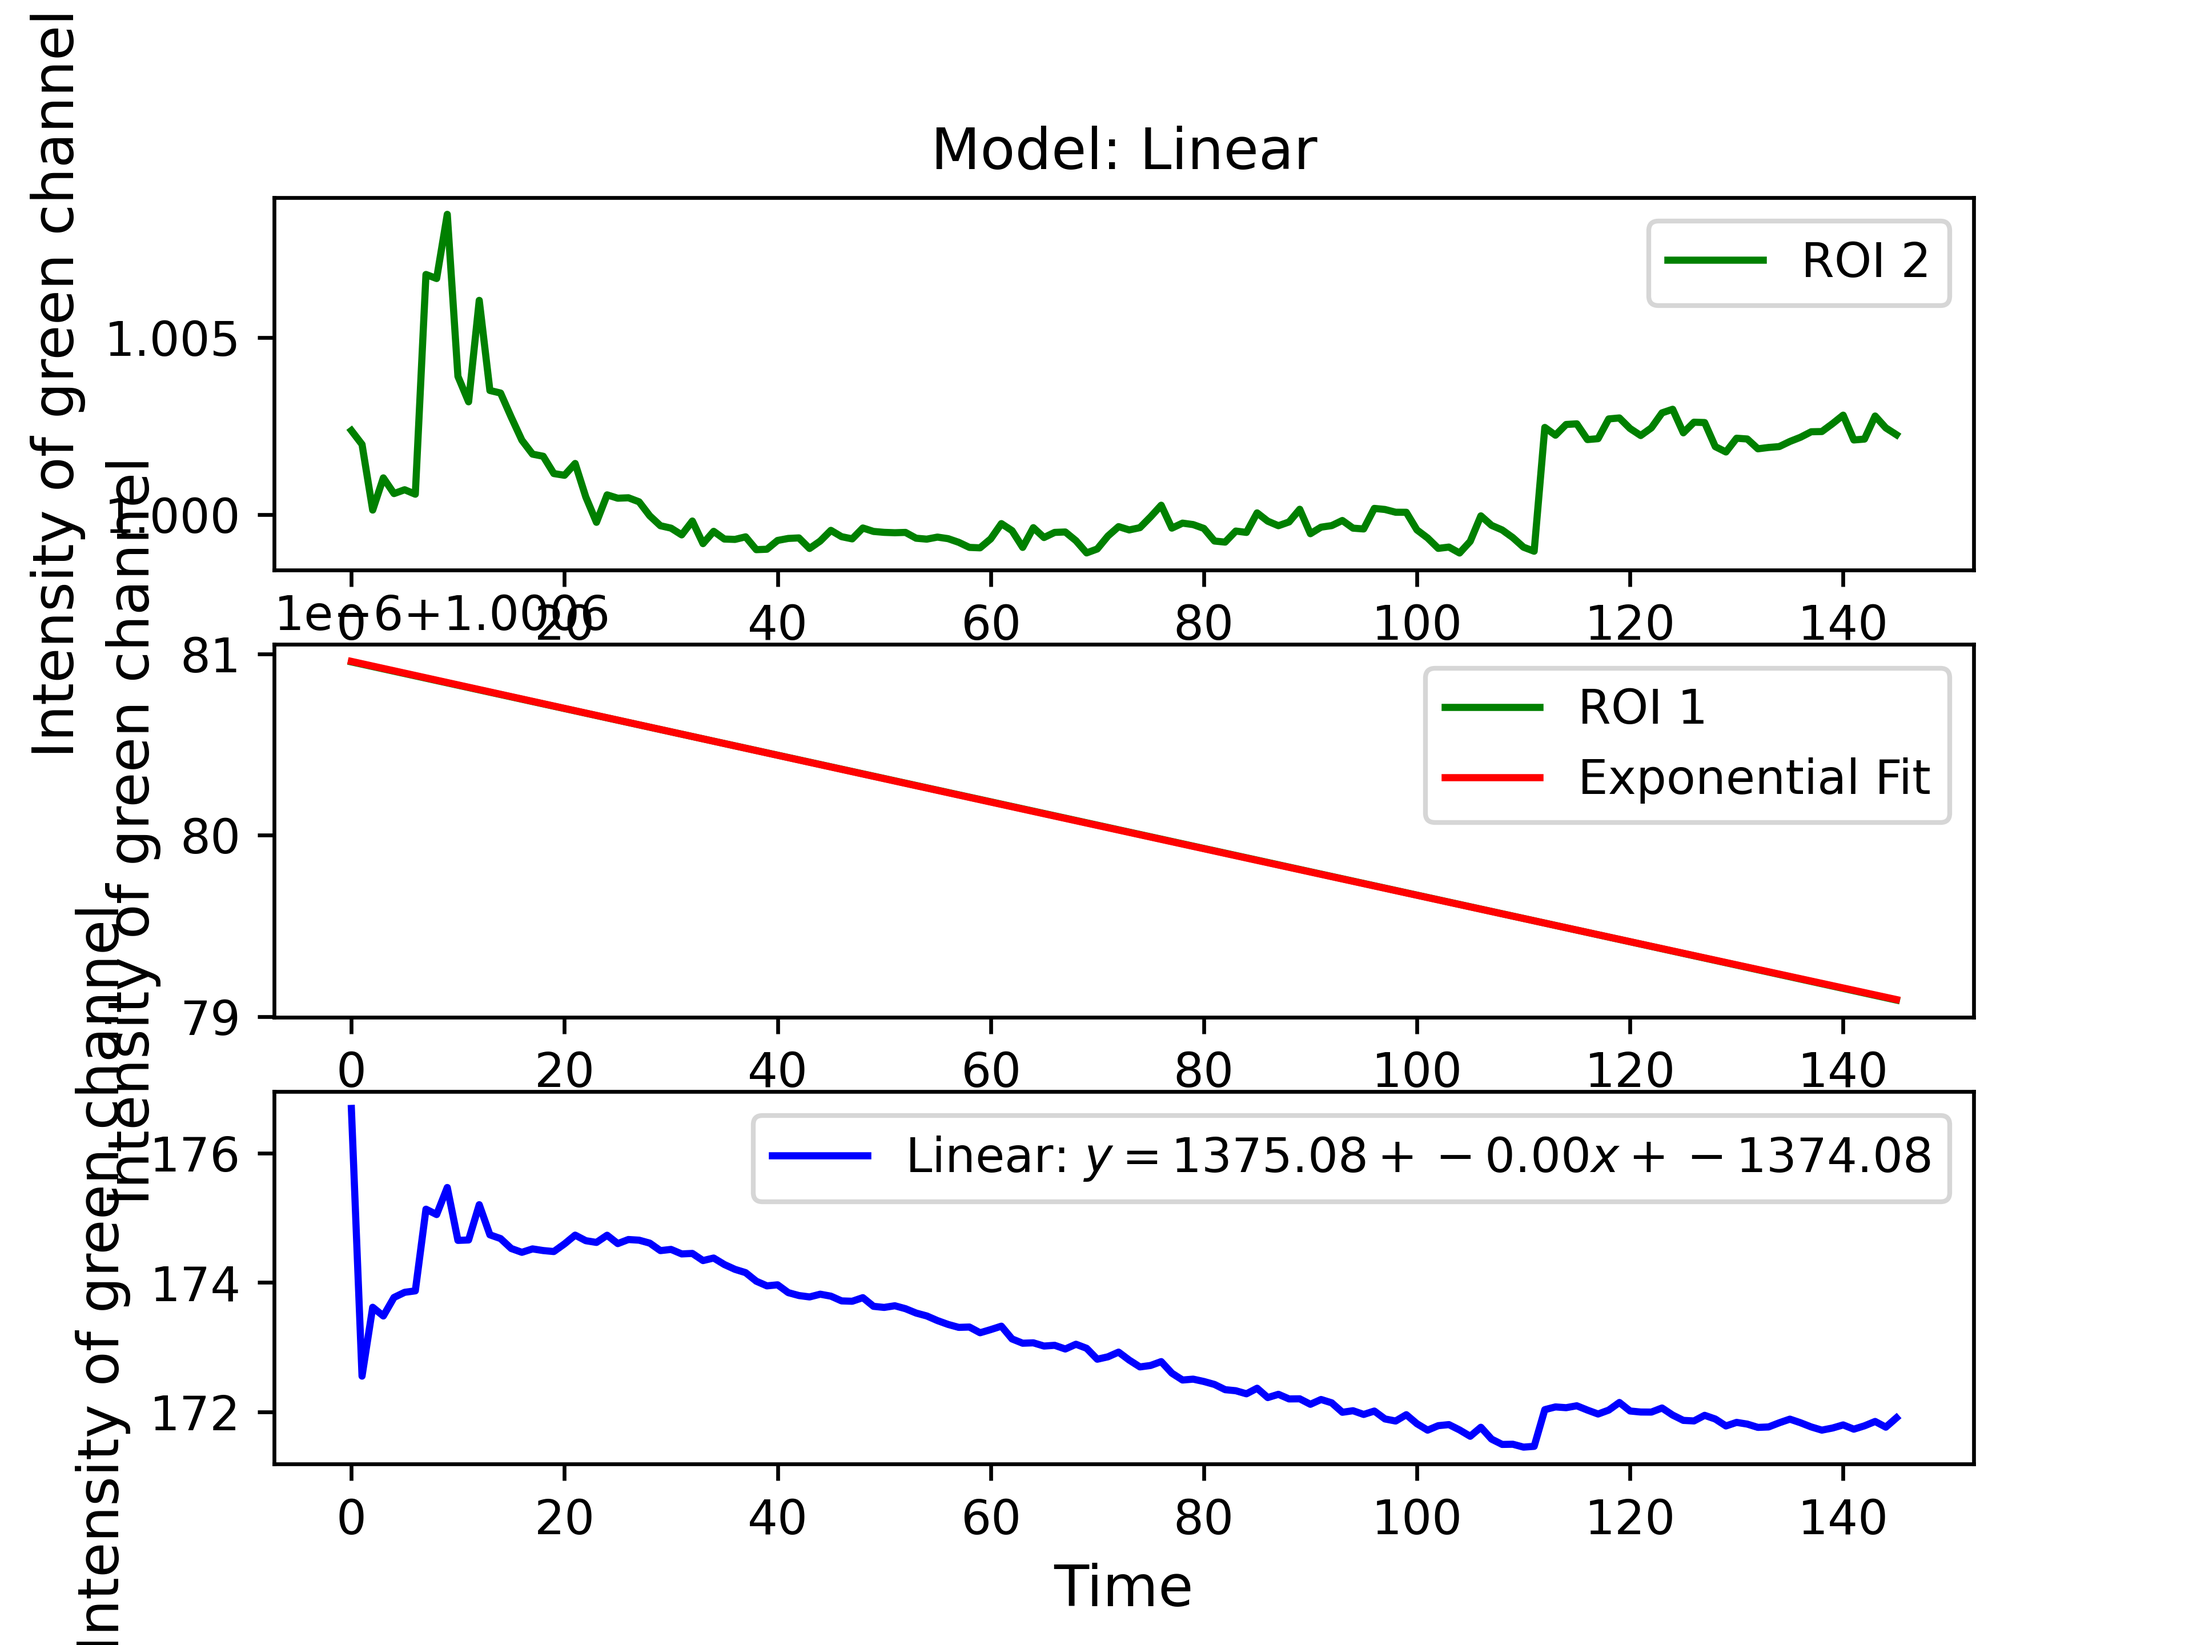
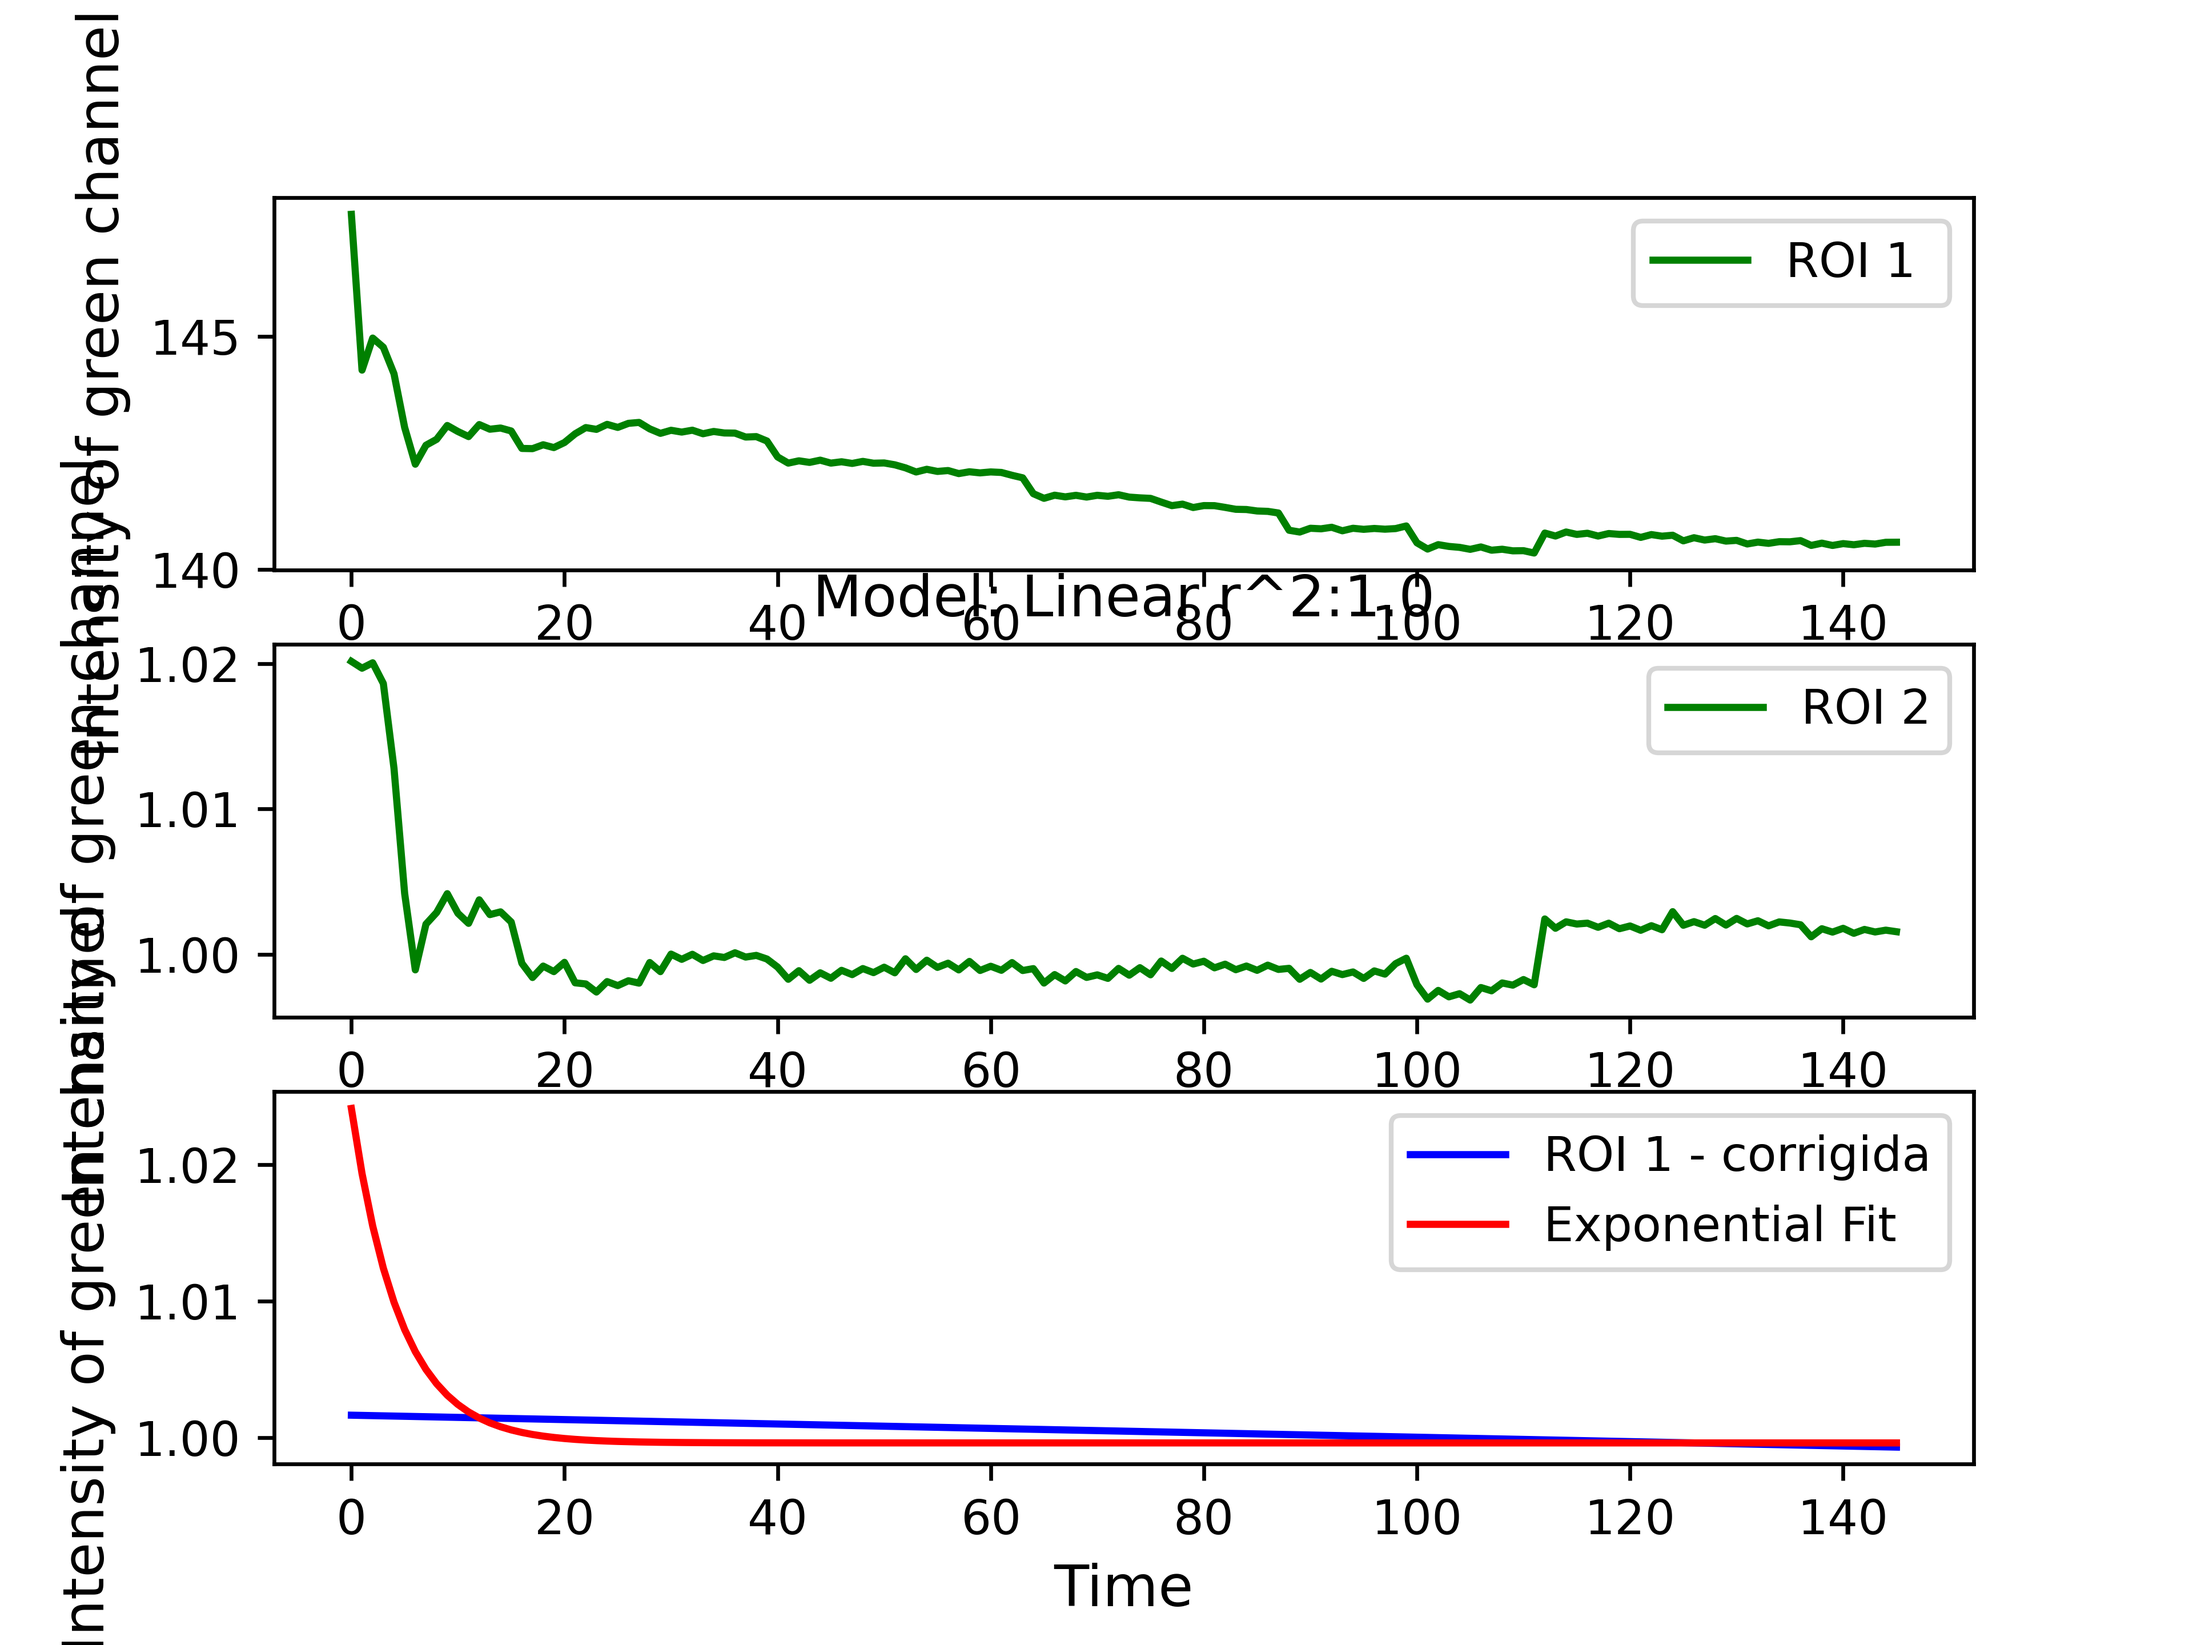
atualizações

diff --git a/CorrectLightUnpolROIsAdjustpCRT_nfuncv3.py b/CorrectLightUnpolROIsAdjustpCRT_nfuncv3.py
@@ -9,6 +9,12 @@ from sklearn.metrics import r2_score
 from scipy.signal import savgol_filter
 
 
+sys.path.append("C:/Users/Fotobio/Documents/GitHub/pyCRT") #PC casa 
+#sys.path.append("C:/Users/RaquelPantojo/Documents/GitHub/pyCRT") # PC lab
+
+from src.pyCRT import PCRT  
+
+
 # Caminho base para os arquivos do projeto
 base_path = "C:/Users/Fotobio/Documents/GitHub/CorrectLightUnpol/DespolarizadoP5"  # PC casa
 folder_name = "teste1"
@@ -42,36 +48,33 @@ def normalize(data):
     data_max = np.max(data)
     return (data - data_min) / (data_max - data_min)
 
-def plot_and_save_model(model_name, params, RoiGreen1, fitted_curve1, fitted_curve1_exp, RoiGreen2, r_squared, output_filename):
-  
+
+
+def plot_and_save_model(model_name, best_params, RoiDecayGreen1, fitted_curve1, fitted_curve1_exp, RoiDecayGreen2, best_r2, output_filename):
     # Criando o gráfico
     plt.figure()
     
-    # Subplot 1: ROI 2
-    plt.subplot(211)
-    plt.plot(RoiGreen2, label="ROI 2", color='green')
-    plt.title(f"Model: {model_name} r^2:{r_squared}")
+    #  ROI 1
+    plt.subplot(311)
+    plt.plot(RoiDecayGreen1, label="ROI 1 ", color='green')
+    plt.title(f"Model: {model_name} r^2:{best_r2: .2f}")
     plt.xlabel("Time",fontsize=12)
-    plt.ylabel("Intensity of green channel",fontsize=12)
     plt.legend(fontsize=10)
 
-    # Subplot 2: ROI 1 vs Fit Exponencial
-    plt.subplot(212)
-    plt.plot(fitted_curve1, label="ROI 1 - corrigida", color='green')
+    #  ROI 2
+    plt.subplot(312)
+    plt.plot(RoiDecayGreen2, label="ROI 2", color='green')
+    plt.xlabel("Time",fontsize=12)
+    plt.ylabel("Intensity of G-channel normalized",fontsize=12)
+    plt.legend(fontsize=10)
+
+
+    plt.subplot(313)
+    plt.plot(fitted_curve1,label="ROI 1 - corrigida",  color='blue')
     plt.plot(fitted_curve1_exp, label="Exponential Fit", color='red')
     plt.xlabel("Time",fontsize=12)
-    plt.ylabel("Intensity of green channel",fontsize=12)
     plt.legend(fontsize=10)
 
-    """   # Subplot 3: Fitted Curve and Equation
-    plt.subplot(313)
-    plt.plot(RoiGreen1, color='blue')
-    plt.xlabel("Time",fontsize=12)
-    plt.ylabel("Intensity of green channel",fontsize=12)
-    plt.legend(fontsize=10)
-
-    """
- 
 
     # Salvando o gráfico em um arquivo
     plt.savefig(output_filename, dpi=600)
@@ -187,13 +190,15 @@ Roi3 = np.array(Roi3)
 
 time_stamps = np.array(time_stamps)
 
-# Normaliza a Curva 2 pela média dos primeiros 40 pontos
+# Normaliza a Curva 1 pela média dos primeiros 30 pontos
+RoiGreen = RoiGreen / np.mean(RoiGreen[:30])
+
+# Normaliza a Curva 2 pela média dos primeiros 30 pontos
 normalization_factor = np.mean(Roi2[:30])
 if normalization_factor == 0:
     print("Erro: O fator de normalização é zero.")
 else:
     normalized_curve2 = Roi2 / normalization_factor
-
 
 
 
@@ -222,12 +227,21 @@ def exp_decay(x, a, b, c):
 def polynomial_4th_order(x, a, b, c, d, e):
     return a * (x ** 4) + b * (x ** 3) + c * (x ** 2) + d * x + e
 
+def polynomial_3rd_order(x, a, b, c, d):
+    return a * (x ** 3) + b * (x ** 2) + c * x + d
+
+
 # Dicionário dos modelos
 models = {
     #"Exponential": exponential,
-    "Linear": linear,
-    #"Polynomial_4th_Order": polynomial_4th_order ,
-    #"Quadratic":quadratic
+    #"Linear": linear,
+    #"Quadratic": quadratic,
+    #"Logarithmic": logarithmic,
+    #"Power Law": power_law,
+   #"Gaussian": gaussian_model,
+    #"Exp Decay": exp_decay,
+    #"Polynomial 4th Order": polynomial_4th_order,
+    "Polynomial 3rd Order": polynomial_3rd_order
 }
 
 # Função para calcular o erro
@@ -243,33 +257,74 @@ def calculate_r2(observed, fitted):
 def initialize_params(model_name):
     if model_name == "Exponential":
         return [
-            avoid_zero(np.random.uniform(0.5, 10)),  
-            avoid_zero(np.random.uniform(-0.5, 10.5)), 
-            avoid_zero(np.random.uniform(0.1, 5.0))    
+            np.random.uniform(0.1, 10),   # 'a' positivo para amplitude
+            -np.random.uniform(0.1, 1),  # 'b' negativo para decaimento
+            np.random.uniform(0, 1)      # 'c' pequeno para deslocamento
         ]
     elif model_name == "Linear":
+
         return [
-            avoid_zero(np.random.uniform(0.1, 10.0)),  
-            avoid_zero(np.random.uniform(0.1, 10.0))   
+            np.random.uniform(-1, 10),  # Intercepto
+            np.random.uniform(-1, 10)  # Inclinação
         ]
     elif model_name == "Quadratic":
-        # Parâmetros para um modelo quadrático: ax^2 + bx + c
         return [
-            avoid_zero(np.random.uniform(-5.0, 5.0)),  # Coeficiente a
-            avoid_zero(np.random.uniform(-5.0, 5.0)),  # Coeficiente b
-            avoid_zero(np.random.uniform(-5.0, 5.0))   # Coeficiente c
+            np.random.uniform(-10, 10),  # Coeficiente quadrático
+            np.random.uniform(-10, 10), # Coeficiente linear
+            np.random.uniform(-10, 10)  # Termo constante
+        ]
+    elif model_name == "Logarithmic":
+        return [
+            np.random.uniform(0.1, 10),  # Amplitude
+            np.random.uniform(0.1, 2),  # Fator de escala
+            np.random.uniform(-10, 10)  # Deslocamento
+        ]
+    elif model_name == "Power Law":
+        return [
+            np.random.uniform(0.1, 5),   # Coeficiente
+            np.random.uniform(0.1, 3),  # Expoente
+            np.random.uniform(-10, 10)  # Deslocamento
+        ]
+    elif model_name == "Gaussian":
+        return [
+            np.random.uniform(0.1, 10),  # Altura do pico
+            np.random.uniform(1, 5),    # Largura (desvio padrão)
+            np.random.uniform(-10, 10)  # Posição do centro
+        ]
+    elif model_name == "Exp Decay":
+        return [
+            np.random.uniform(1, 10),   # Amplitude inicial
+            np.random.uniform(0.1, 1), # Taxa de decaimento
+            np.random.uniform(0, 1)    # Deslocamento vertical
+        ]
+    elif model_name == "Polynomial 4th Order":
+        return [
+            np.random.uniform(-1, 1),   # Coeficiente x⁴
+            np.random.uniform(-1, 1),  # Coeficiente x³
+            np.random.uniform(-1, 1),  # Coeficiente x²
+            np.random.uniform(-1, 1),  # Coeficiente x
+            np.random.uniform(-1, 1)   # Constante
+        ]
+    elif model_name == "Polynomial 3rd Order":
+        return [
+            np.random.uniform(-1, 1),   # Coeficiente x³
+            np.random.uniform(-1, 1),   # Coeficiente x²
+            np.random.uniform(-1, 1),   # Coeficiente x
+            np.random.uniform(-1, 1)    # Constante
         ]
     else:
         raise ValueError("Modelo não suportado.")
 
+
+
 def initialize_params_exponential(data):
-    # Inicializa a partir de uma estimativa dos dados
-    a = np.max(data)  # Usar o máximo dos dados para 'a'
-    b = -0.01  # Um valor inicial para o decaimento (valor negativo para uma exponencial decrescente)
-    c = np.min(data)  # Usar o mínimo dos dados para 'c'
+    a = np.max(data)  
+    b = -0.01  
+    c = np.min(data) 
     return [a, b, c]
 
-def bestfit_models(RoiGreen1, RoiGreen2, models, max_attempts=400):
+
+def bestfit_models(RoiGreen1, RoiGreen2, models, max_attempts=20):
     best_model = None
     best_r2 = -np.inf
     best_params = None
@@ -278,8 +333,12 @@ def bestfit_models(RoiGreen1, RoiGreen2, models, max_attempts=400):
 
     if len(RoiGreen1) > 0:
         max_idx = np.argmax(RoiGreen1)
-        RoiGreen1 = RoiGreen1[max_idx:]
-        RoiGreen2 = RoiGreen2[max_idx:]
+        RoiDecayGreen1 = RoiGreen1[max_idx:]
+        #RoiDecayGreen1=normalize(RoiDecayGreen1)
+
+        RoiDecayGreen2 = RoiGreen2[max_idx:]
+        
+        #RoiGreen2=normalize(RoiGreen2)
 
         
     else:
@@ -294,59 +353,81 @@ def bestfit_models(RoiGreen1, RoiGreen2, models, max_attempts=400):
             attempt += 1
             try:
                 params_init = initialize_params(model_name)
-                params, _ = curve_fit(model, np.arange(len(RoiGreen2)), RoiGreen2, p0=params_init)
-                fittedROI2 = model(np.arange(len(RoiGreen2)), *params)
+                if None in params_init:
+                    print(f"Erro: parâmetros de inicialização inválidos para o modelo {model_name}")
+                    continue
+                try:
+                    params, _ = curve_fit(model, np.arange(len(RoiDecayGreen2)), RoiDecayGreen2, p0=params_init)
+                except Exception as e:
+                    print(f"Erro ao ajustar o modelo {model_name}: {e}")
+                    continue
+                fittedROI2 = model(np.arange(len(RoiDecayGreen2)), *params)
                 error = calculate_error(fittedROI2)
 
                 if error < 0.01:  
                     print("Erros:",error)
-                    fitted_curve1 = model(np.arange(len(RoiGreen1)), *params)
-                    #tentativa de usar a ROI1 mesmo
+                    
+                    # primeiro ajuste com os parametros obtidos pelo ajuste da função da ROI 2
+                    fitted_curve1 = model(np.arange(len(RoiDecayGreen1)), *params)
+                    
+                    #melhorando os parametroos iniciais de ajuste 
                     params_init_exp = initialize_params_exponential(fitted_curve1)
                     params_exp, _ = curve_fit(exponential, np.arange(len(fitted_curve1)), fitted_curve1, p0=params_init_exp)
 
-                    #params_exp, _ = curve_fit(exponential, np.arange(len(RoiGreen1)), RoiGreen1)
                     fitted_curve1_exp = exponential(np.arange(len(fitted_curve1)), *params_exp)
                     r_squared_exp = calculate_r2(fitted_curve1, fitted_curve1_exp)
                     
-                    plt.figure(figsize=(8, 6))  # Ajusta o tamanho da figura
-                    plt.plot(fitted_curve1_exp, label="Exponential Fit", color='red')
-                    plt.close()
                     print("Valores de R^2:", r_squared_exp)
 
-
-
-                    if r_squared_exp > 0.6:
-                        print(f"Modelo {model_name} com R² = {r_squared_exp:.4f} encontrado!")
+                    if r_squared_exp > 0.8:
+                        print(f"Modelo {model_name} R² = {r_squared_exp:.4f} parametros: {params} ")
                         found_good_fit = True
-                        best_model = model_name
-                        best_r2 = r_squared_exp
                         best_params = params
-                        fitted_curve_best = model(np.arange(len(RoiGreen1)), *best_params)
-                        params_exp, _ = curve_fit(exponential, np.arange(len(fitted_curve1)), fitted_curve1)
-                        fitted_curve1_exp_best = exponential(np.arange(len(fitted_curve1)), *params_exp)
+                    
+                    #fitted_curve_best = model(np.arange(len(RoiDecayGreen1)), *best_params)
+                    #params_exp, _ = curve_fit(exponential, np.arange(len(fitted_curve_best)), fitted_curve_best)
+                    #fitted_curve1_exp_best = exponential(np.arange(len(fitted_curve_best)), *params_exp)
 
-              
-
+                        
+            
             except Exception as e:
                 print(f"Erro durante o ajuste do modelo {model_name} na tentativa {attempt}: {e}")
                 continue
 
-        if found_good_fit:
-            output_filename = f"{model_name}_final_plot.png"
-            plot_and_save_model(model_name, best_params, RoiGreen1, fitted_curve_best, fitted_curve1_exp_best, RoiGreen2, best_r2, output_filename)
+        #if found_good_fit:
+       
 
-    if best_model is None:
-        print("Nenhum ajuste adequado foi encontrado.")
-        return None, None, None, None, None, None
 
-    return best_model, best_r2, best_params, best_fitted_curve1, fitted_curve1_exp, best_r2
+    return model_name, best_params, RoiDecayGreen1, fitted_curve1, fitted_curve1_exp, RoiDecayGreen2, r_squared_exp
 
 
 
 # Chama a função de melhor ajuste
-bestfit_models(RoiGreen, normalized_curve2,models)
+model_name, best_params, RoiDecayGreen1, fitted_curve1, fitted_curve1_exp, RoiDecayGreen2, best_r2 = bestfit_models(RoiGreen, normalized_curve2,models)
+
 #print(f"RoiGreen length: {len(RoiGreen)}")
 #print(f"normalized_curve2 length: {len(normalized_curve2)}")
 
+
+
+output_filename = f"{model_name}_final_plot.png"
+plot_and_save_model(model_name, best_params, RoiDecayGreen1, fitted_curve1, fitted_curve1_exp, RoiDecayGreen2, best_r2, output_filename)
+  
+
+
+""" testando o pCRT 
+
+
+RoiRed2=np.array(normalized_curve2)
+RoiGreen2=np.array(normalized_curve2)
+RoiBlue2= np.array(normalized_curve2)
+
+
+
+channelsAvgIntensArr= np.column_stack((RoiRed2, RoiGreen2, RoiBlue2))
+pcrt = PCRT(time_stamps,channelsAvgIntensArr,exclusionMethod='best fit',exclusionCriteria=999)
+#pcrt.showAvgIntensPlot()
+pcrt.showPCRTPlot()
+
+"""
 
